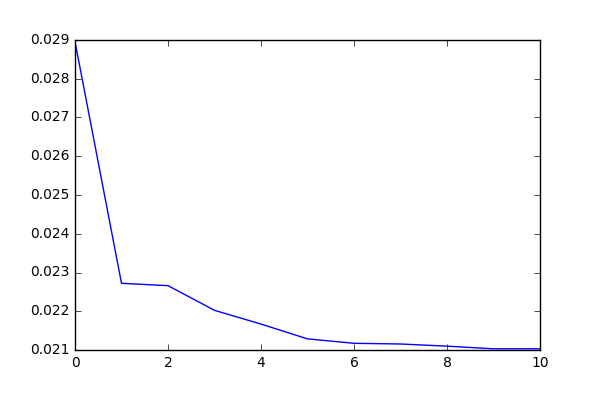
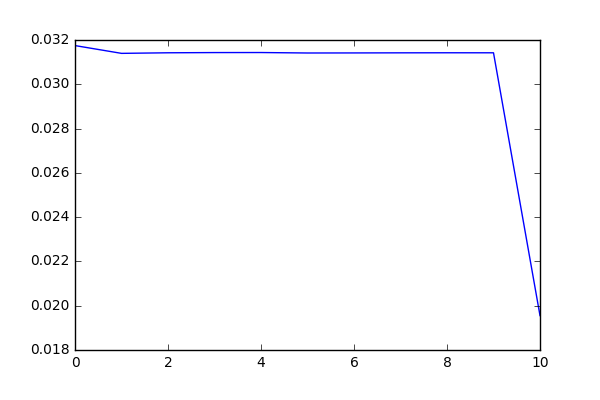
trol

diff --git a/plikAgi.py b/plikAgi.py
@@ -12,13 +12,13 @@ from sklearn.metrics import mean_squared_error
 
 
 def sinogram2picture(picture, sinogram, lines):
-    reconstructed = sin2pic(picture, sinogram, lines, 'sin2pic.gif', 'mse_s2p')    
+    reconstructed = sin2pic(picture, sinogram, lines, 'sin2pic.gif', 'mse_s2p', False)    
     return reconstructed
 
 def filtered_sinogram2picture(picture, sinogram, lines):    
     sinogram = filtering_sinogram(sinogram)
     sinogram = normalizing_sinogram(sinogram) 
-    reconstructed = sin2pic(picture, sinogram, lines, 'fil_sin2pic.gif', 'mse_fs2p')    
+    reconstructed = sin2pic(picture, sinogram, lines, 'fil_sin2pic.gif', 'mse_fs2p', True)    
     return reconstructed
 
 def filtering_sinogram(sinogram):
@@ -38,7 +38,7 @@ def filtering_sinogram(sinogram):
 
 def do_mask(detectors):
     # maska jednowymiarowa
-    mask_size = floor(detectors/5)
+    mask_size = floor(detectors/2)
     mask = np.zeros(mask_size)
     center = floor(mask_size/2)
     for i in range(0, mask_size, 1):
@@ -51,26 +51,37 @@ def do_mask(detectors):
 def filtering_picture(img) :
     #new = filters.median(img, disk(2))
     new = filters.gaussian_filter(img, sigma=1)
-    # korekcja gamma
-    gamma = 1/2.2
-    new = (new ** gamma)
-    
-    perc = 10
-    MIN = np.percentile(img, perc)
-    MAX = np.percentile(img, 100-perc)
-    new = normalizing(img, MIN, MAX)
-    #new = normalizing(img, 0, 1)
-    #new = mp.erosion(img)
-    #new = filters.median(new, disk(2))
-    #new = filters.gaussian_filter(img, sigma=1)
 
+    #new = gamma(new, 1/2.2)
+    MIN = new.min()
+    MAX = new.max()
+    print("max ", MAX);
+    MAX = 0.2
+    new = normalizing(new, MIN, MAX)
+    new = mp.dilation(mp.erosion(new))
+    new = normalizing(new, MIN, MAX)
+    """
+    perc = 10
+    MIN = np.percentile(new, perc)
+    MAX = np.percentile(new, 100-perc)
+    new = normalizing(new, MIN, MAX)
+    new = normalizing(img, 0, 1)
+    new = mp.erosion(img)
+    new = filters.median(new, disk(2))
+    new = filters.gaussian_filter(img, sigma=1)
+    """
+    #new = mp.dilation(mp.erosion(new))
+    return new
+
+def gamma(img, gamma):
+    new = img ** gamma
     return new
 
 def normalizing_sinogram(sinogram):
     
     norm = np.copy(sinogram)
     #norm[norm[:,:] < 0] = 0
-    
+    """
     minval = 0
     maxval = sinogram.max()
     
@@ -79,7 +90,7 @@ def normalizing_sinogram(sinogram):
     for i in range (0, width, 1):
         for j in range (0, height, 1):
             norm[i][j] = (sinogram[i][j] - minval) / (maxval - minval)
-    
+    """
     # druga normalizacja do "rozciągnięcia" histogramu
     perc = 5
     MIN = np.percentile(norm, perc)
@@ -125,7 +136,7 @@ def save_plot(x, y, filename):
     plt.plot(range(x), y)
     plt.savefig(filename)  
     
-def sin2pic(picture, sinogram, lines, filename1, filename2):
+def sin2pic(picture, sinogram, lines, filename1, filename2, filtr):
     
     picture_shape = np.shape(picture)
     width = picture_shape[0]
@@ -156,22 +167,22 @@ def sin2pic(picture, sinogram, lines, filename1, filename2):
                     if x >= 0 and y >= 0 and x < width and y < height:
                         reconstructed[int(x)][int(y)] += value
                         helper[int(x)][int(y)] += 1
-        
+        fragment = normalizing_picture(reconstructed, helper)
+        fragment[fragment[:,:] < 0] = 0
+        images.append(gamma(fragment, 0.3))
         if (projection%10 == 0):
-            fragment = normalizing_picture(reconstructed, helper)
-            fragment[fragment[:,:] < 0] = 0
-            images.append(fragment)
             mse[iterator] = mean_squared_error(picture, fragment)
             iterator += 1
     
     reconstructed = normalizing_picture(reconstructed, helper)
-    images.append(reconstructed)
+    images.append(gamma(reconstructed, 0.3))
     mse[iterator] = mean_squared_error(picture, reconstructed)
     iterator += 1
     plot_images(picture,reconstructed)
-    reconstructed[reconstructed[:,:] < 0] = 0
-    #reconstructed = filtering_picture(reconstructed)
-    images.append(reconstructed)
+    if (filtr):
+        reconstructed[reconstructed[:,:] < 0] = 0
+        reconstructed = filtering_picture(reconstructed)
+    images.append(gamma(reconstructed, 0.3))
     mse[iterator] = mean_squared_error(picture, reconstructed)
     iterator += 1
     imageio.mimsave(filename1, images)
